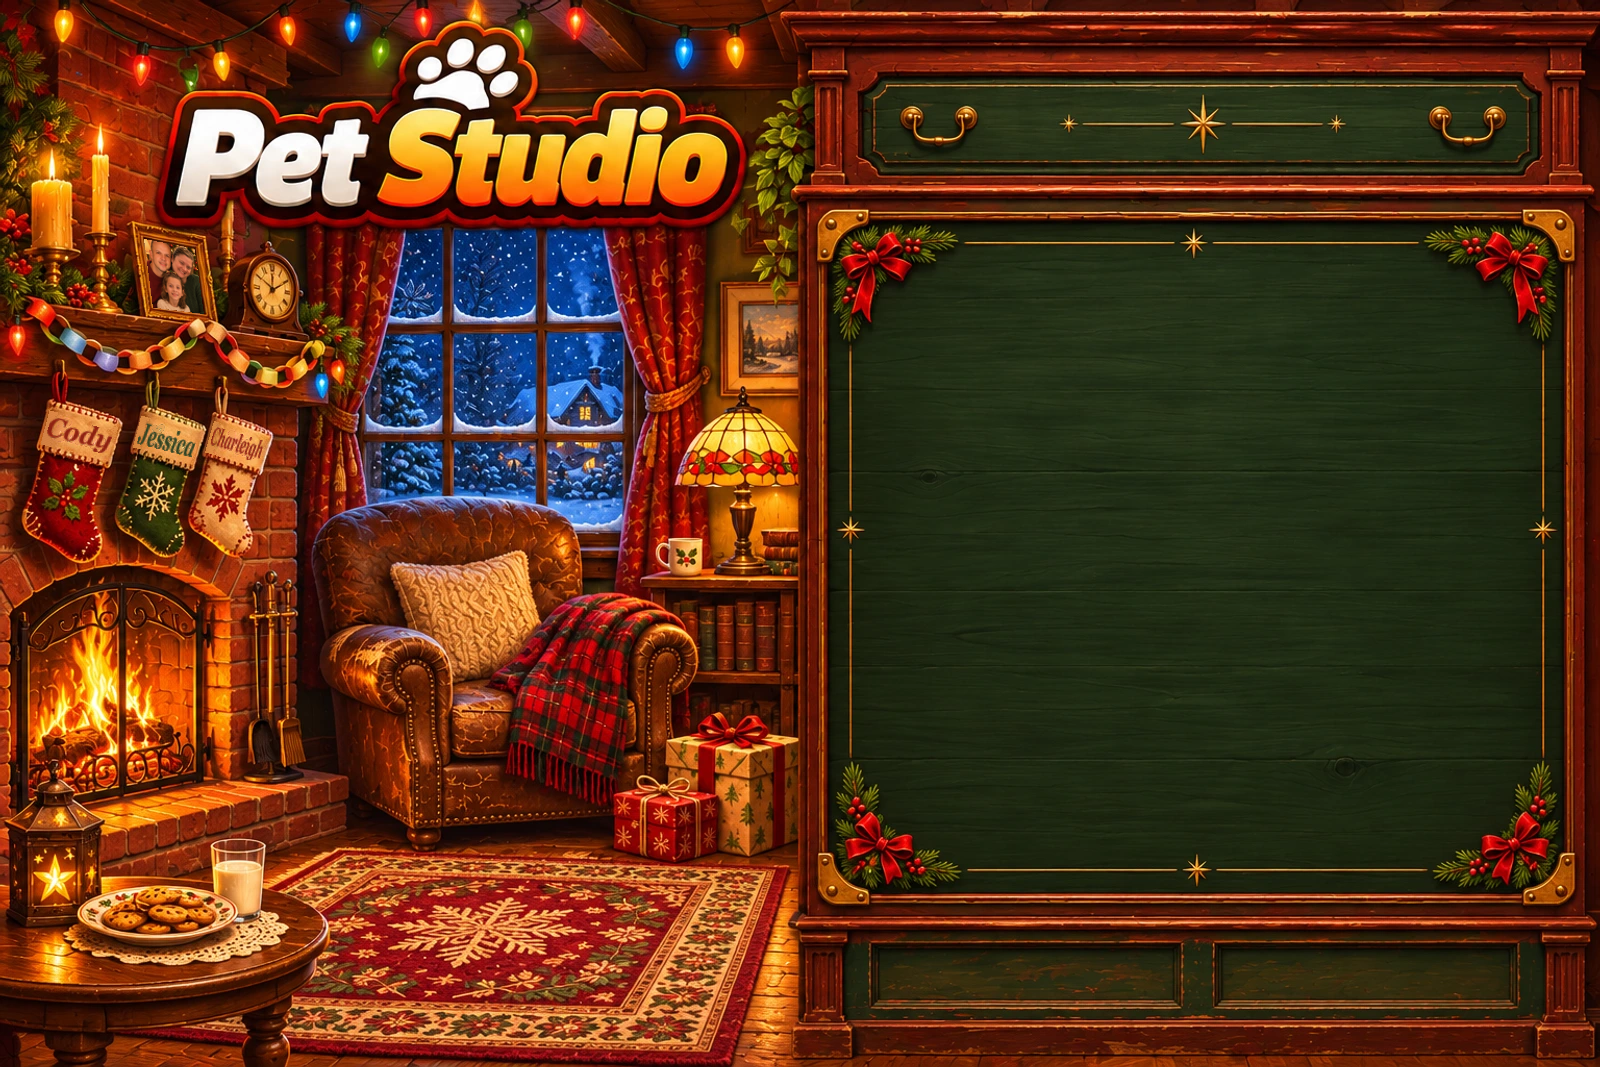
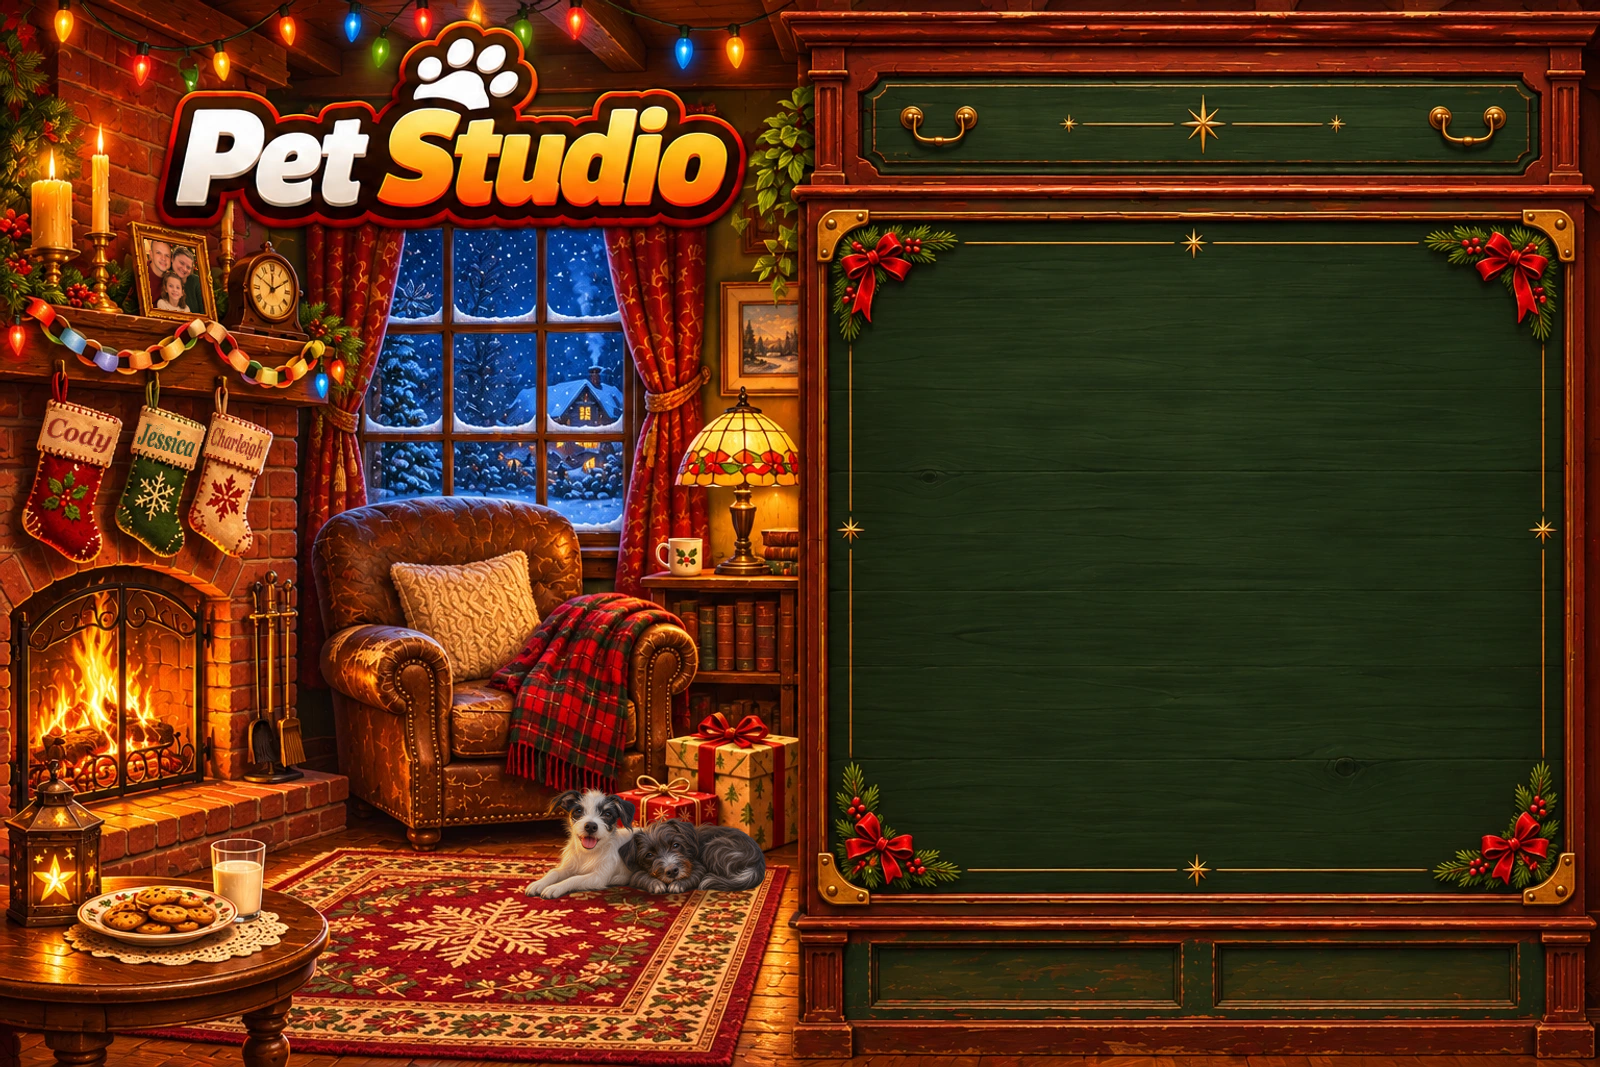
Add both family dogs to the Christmas Eve hearth rug

Changed region(s): [[0.3125, 0.7423, 0.5, 0.866]]

diff --git a/index.html b/index.html
@@ -68,7 +68,7 @@
   <meta data-pet-runtime="labubu" data-pet-runtime-style="labubu-pet/interactive.css?v=20261025-sleep-zs-look-v2">
   <meta data-pet-studio-stylesheet="pet-studio-gallery.css?v=20261025-v1">
   <meta data-pet-studio-stylesheet="pet-studio-art-themes.css?v=20261102-labels-select-contrast-v6">
-  <meta data-pet-studio-stylesheet="pet-studio-seasonal.css?v=20261125-family">
+  <meta data-pet-studio-stylesheet="pet-studio-seasonal.css?v=20261125-family-dogs">
   <meta data-pet-studio-stylesheet="pet-studio-responsive.css?v=20261104-wood-board-v6">
   <meta data-pet-runtime="labubu" data-pet-runtime-script="labubu-pet/skins.js?v=20261025-ears-v1">
   <meta data-pet-runtime="labubu" data-pet-runtime-script="labubu-pet/accessories.js?v=20261026-scarf-fit-v8">

diff --git a/pet-studio-seasonal.css b/pet-studio-seasonal.css
@@ -53,7 +53,7 @@
 }
 /* Christmas Eve shares Autumn's painted board geometry. Both art layers use the same bounds. */
 .pet-studio[data-theme][data-christmas-eve] {
- --season-frame:url('assets/pet-studio/christmas-eve.webp?v=20261125-family');
+ --season-frame:url('assets/pet-studio/christmas-eve.webp?v=20261125-family-dogs');
  --mantel-motion:url('assets/pet-studio/christmas-eve-motion.svg');
 }
 @media (min-width:701px) {
